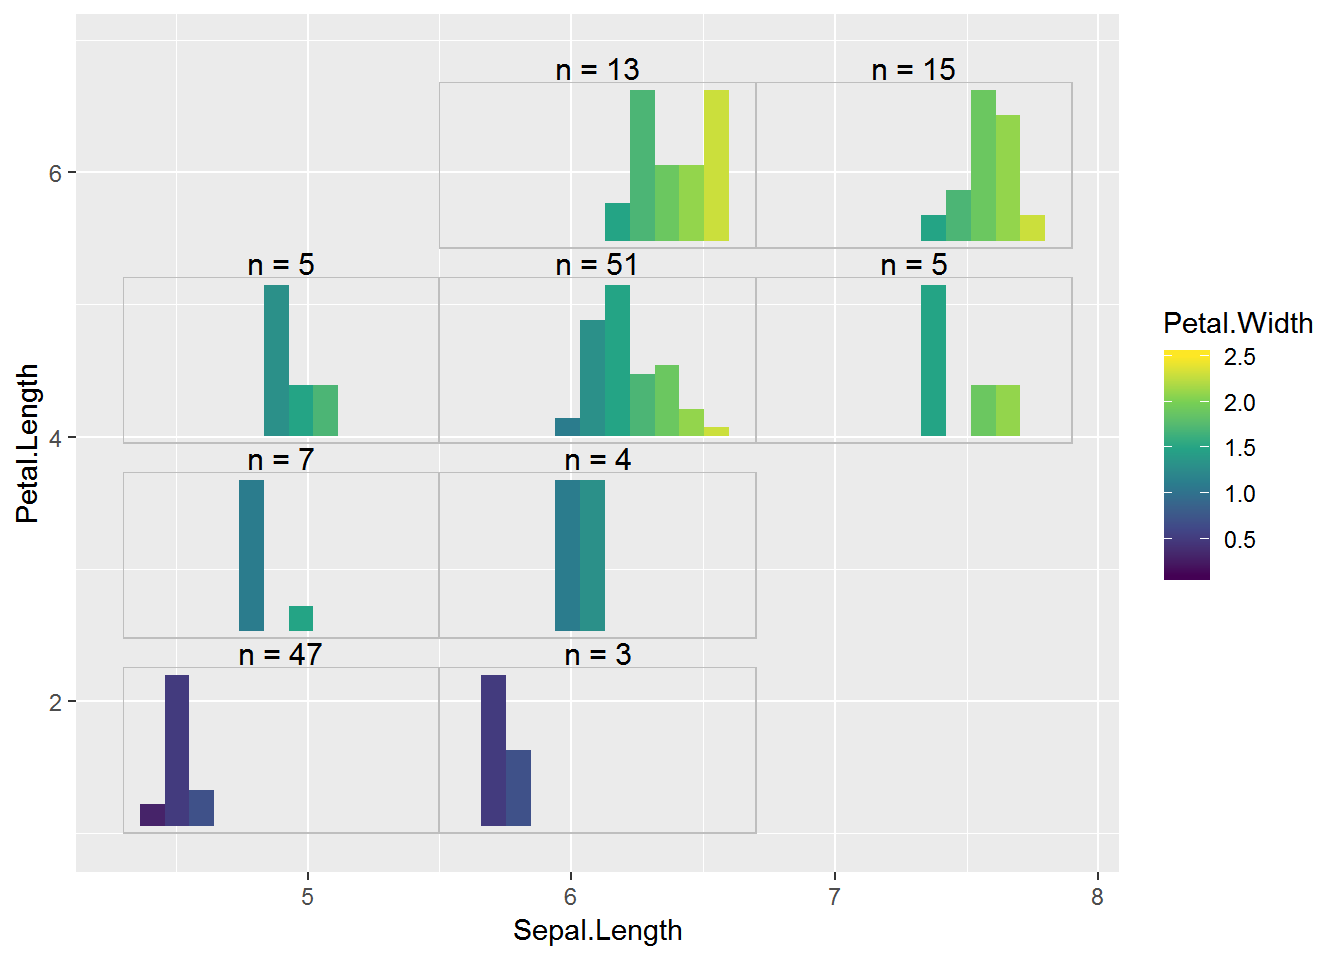
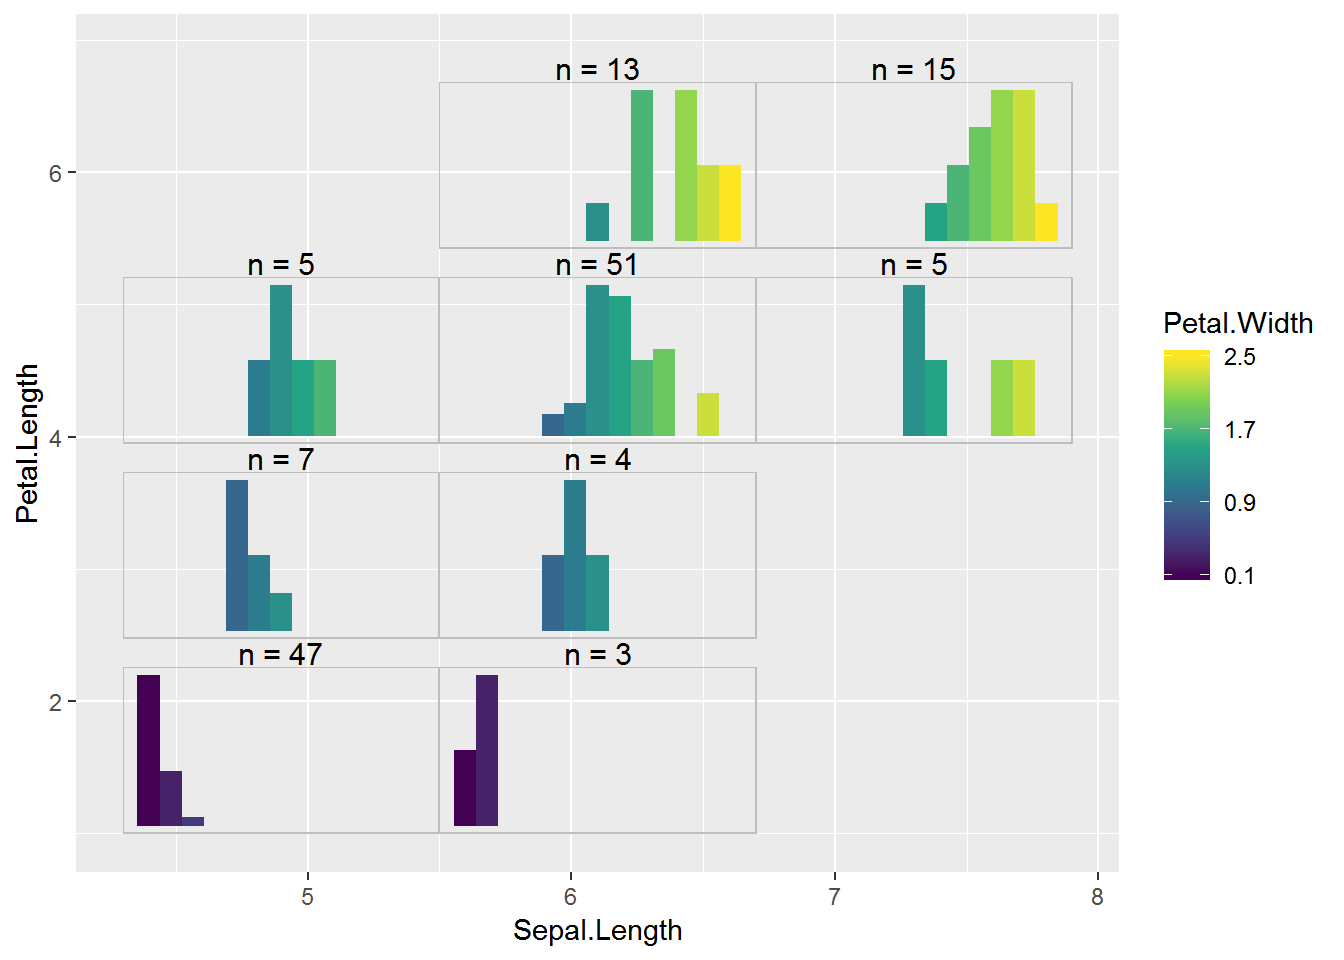
Work on binwidth, center, axis limits of histograms in embedded plots post

diff --git a/content/post/2019-04-22-embedding-subplots.html b/content/post/2019-04-22-embedding-subplots.html
@@ -223,12 +223,14 @@ allplots</code></pre>
 <p>I haven’t actually made the larger plot I’m going to embed subplots into yet. This will be a blank plot with <code>Sepal.Length</code> on the x axis and <code>Petal.Length</code> on the y axis with a legend for <code>fill</code>.</p>
 <p>Adding on the overall legend to a blank plot involves a little trick with <code>geom_col()</code>, which was demonstrated in those Stack Overflow posts. (Thank goodness for SO, since I would have never figured it out otherwise 😜.)</p>
 <p>Here is the plot I will embed the subplots into.</p>
-<pre class="r"><code>( largeplot = ggplot(iris, aes(x = Sepal.Length, y = Petal.Length, fill = Species) ) +
-     geom_blank() +
-     geom_col( aes(Inf, Inf) ) +
-     scale_fill_manual(values = c(&quot;setosa&quot; = &quot;#ED90A4&quot;, 
-                                       &quot;versicolor&quot; = &quot;#ABB150&quot;,
-                                       &quot;virginica&quot; = &quot;#00C1B2&quot;) ) )</code></pre>
+<pre class="r"><code>( largeplot = ggplot(iris, aes(x = Sepal.Length, 
+                               y = Petal.Length, 
+                               fill = Species) ) +
+       geom_blank() +
+       geom_col( aes(Inf, Inf) ) +
+       scale_fill_manual(values = c(&quot;setosa&quot; = &quot;#ED90A4&quot;, 
+                                    &quot;versicolor&quot; = &quot;#ABB150&quot;,
+                                    &quot;virginica&quot; = &quot;#00C1B2&quot;) ) )</code></pre>
 <pre><code># Warning: Removed 149 rows containing missing values (geom_col).</code></pre>
 <p><img src="/post/2019-04-22-embedding-subplots_files/figure-html/unnamed-chunk-14-1.png" width="672" /></p>
 </div>
@@ -248,38 +250,40 @@ allplots</code></pre>
 <h1>Continuous distribution subplots</h1>
 <p>I’ve seen quite a few examples of embedded plots with bar plot or pie chart subplots to show patterns in the distribution of some categorical variable across the axis variables. But there’s no reason we can’t show the distribution of a third continuous variable.</p>
 <p>I decided to make a histogram of the variable <code>Petal.Width</code> for the same subplot groups I used above. I found a lot of little details to work through when making subplots showing the distribution of a continuous variable.</p>
-<p>I want the x axis of each plot to encompass the entire range of <code>Petal.Width</code>, so my first step was to pull out that information. These values will be the x axis limits (with some extra added to make sure all the histogram bars fit).</p>
+<p>I want the x axis of each plot to encompass the entire range of <code>Petal.Width</code>, so my first step was to pull out that information. These values will be the x axis limits (with some extra added to make sure all the histogram bars fit) and the limits for the continuous legend.</p>
 <pre class="r"><code>range(iris$Petal.Width)</code></pre>
 <pre><code># [1] 0.1 2.5</code></pre>
 <p>I found the y axis to be a little trickier. I decided to show the bars as proportions of the maximum count with <code>ncount</code> instead of as a raw count. Since the height of bars is then a proportion of maximum instead of a count I added the sample size per group to the plot as text. I ended up putting this in a facet strip rather than within the plot. I went back and forth a bunch and am still not sure the final result is exactly what I want.</p>
 <p>I’ll base the color of the bars on <code>Petal.Width</code>. This can be done with <code>fill = stat(x)</code>, which is how to refer to the bins calculated by <code>geom_histogram()</code>.</p>
-<p>I’ll also need to set the <code>binwidth</code> to make the histogram bars are the same width for each plot. I arbitrarily chose <code>0.25</code> but seeing the final produce I could have used narrower bars. This value is also what I used to pad the x axis limits to make sure all the bars show in every plot.</p>
-<p>Here is my example plot for the first group. As far as I can tell the warning message is spurious since all three bars that should be there are there.</p>
+<p>To make sure each plot has the same number of bar I set the <code>binwidth</code>. I chose to make each bar 0.2 units wide, since the entire range of <code>Petal.Width</code> (2.4 units) is evenly divisible by that number. I also <code>center</code> the first bar at the minimum value of the dataset, so the first bar is centered at 0.1.</p>
+<p>I pad the x axis limits with half the <code>binwidth</code> value to make sure all the bars will show in every plot. Getting the limits correct can be hard; see, e.g., <a href="https://github.com/tidyverse/ggplot2/issues/3265">this GitHub issue</a> if you are seeing warnings that you don’t think are correct.</p>
+<p>Here is my example plot for the first group. Since I was careful with my plot limits the warning message is spurious.</p>
 <pre class="r"><code>ggplot(data = filter(iris, max_x &lt;= 5.5, max_y &lt;= 2.475),
        aes(x = Petal.Width, y = stat(ncount), fill = stat(x) ) ) +
-     geom_histogram(binwidth = .25) +
+     geom_histogram(binwidth = .2, center = .1) +
      theme_void(base_size = 14) +
-     scale_x_continuous(limits = c(0.1 - .25, 2.5 + .25) ) +
+     scale_x_continuous(limits = c(0.1 - .1, 2.5 + .1) ) +
      scale_fill_continuous(type = &quot;viridis&quot;,
-                           guide  = &quot;none&quot;) +
+                           guide  = &quot;none&quot;,
+                           limits = c(.1, 2.5) ) +
      facet_wrap(~paste0(&quot;n = &quot;, nrow(filter(iris, max_x &lt;= 5.5, max_y &lt;= 2.475) ) ) ) +
      theme(panel.border = element_rect(color = &quot;grey&quot;,
                                        fill = &quot;transparent&quot;) )</code></pre>
-<pre><code># Warning: Removed 2 rows containing missing values (geom_bar).</code></pre>
 <p><img src="/post/2019-04-22-embedding-subplots_files/figure-html/unnamed-chunk-17-1.png" width="672" /></p>
 <p>And here’s the function to make histograms for each subplot dataset, which I name <code>histfun</code>.</p>
 <pre class="r"><code>histfun = function(data) {
      ggplot(data = data,
             aes(x = Petal.Width, y = stat(ncount), fill = stat(x) ) ) +
-          geom_histogram(binwidth = .25) +
+          geom_histogram(binwidth = .2, center = .1) +
           theme_void(base_size = 14) +
-          scale_x_continuous(limits = c(0.1 - .25, 2.5 + .25) ) +
+          scale_x_continuous(limits = c(0.1 - .1, 2.5 + .1) ) +
           scale_fill_continuous(type = &quot;viridis&quot;,
-                                guide  = &quot;none&quot;) +
+                                guide  = &quot;none&quot;,
+                                limits = c(.1, 2.5) ) +
           facet_wrap(~paste0(&quot;n = &quot;, nrow(data) ) ) +
           theme(panel.border = element_rect(color = &quot;grey&quot;,
                                             fill = &quot;transparent&quot;) )
-     }</code></pre>
+}</code></pre>
 </div>
 <div id="get-the-subplots-ready-to-plot" class="section level1">
 <h1>Get the subplots ready to plot</h1>
@@ -293,12 +297,15 @@ allplots</code></pre>
 </div>
 <div id="embed-the-histogram-subplots" class="section level1">
 <h1>Embed the histogram subplots</h1>
-<p>This time the large plot needs a continuous legend.</p>
-<pre class="r"><code>( largeplot2 = ggplot(iris, aes(x = Sepal.Length, y = Petal.Length, 
+<p>This time the large plot needs a continuous legend. I set the <code>breaks</code> so the minimum and maximum value are included on the legend. How well this works will depend on the range of your dataset.</p>
+<pre class="r"><code>( largeplot2 = ggplot(iris, aes(x = Sepal.Length, 
+                                y = Petal.Length, 
                                 fill = Petal.Width) ) +
        geom_blank() +
        geom_col( aes(Inf, Inf) ) +
-       scale_fill_continuous(type = &quot;viridis&quot;) )</code></pre>
+       scale_fill_continuous(type = &quot;viridis&quot;,
+                             limits = c(.1, 2.5),
+                             breaks = seq(.1, 2.5, by = .8) ) )</code></pre>
 <pre><code># Warning: Removed 149 rows containing missing values (geom_col).</code></pre>
 <p><img src="/post/2019-04-22-embedding-subplots_files/figure-html/unnamed-chunk-20-1.png" width="672" /></p>
 <p>And, finally, here’s the plot embedded with the <code>Petal.Width</code> distribution plots. 😄</p>
